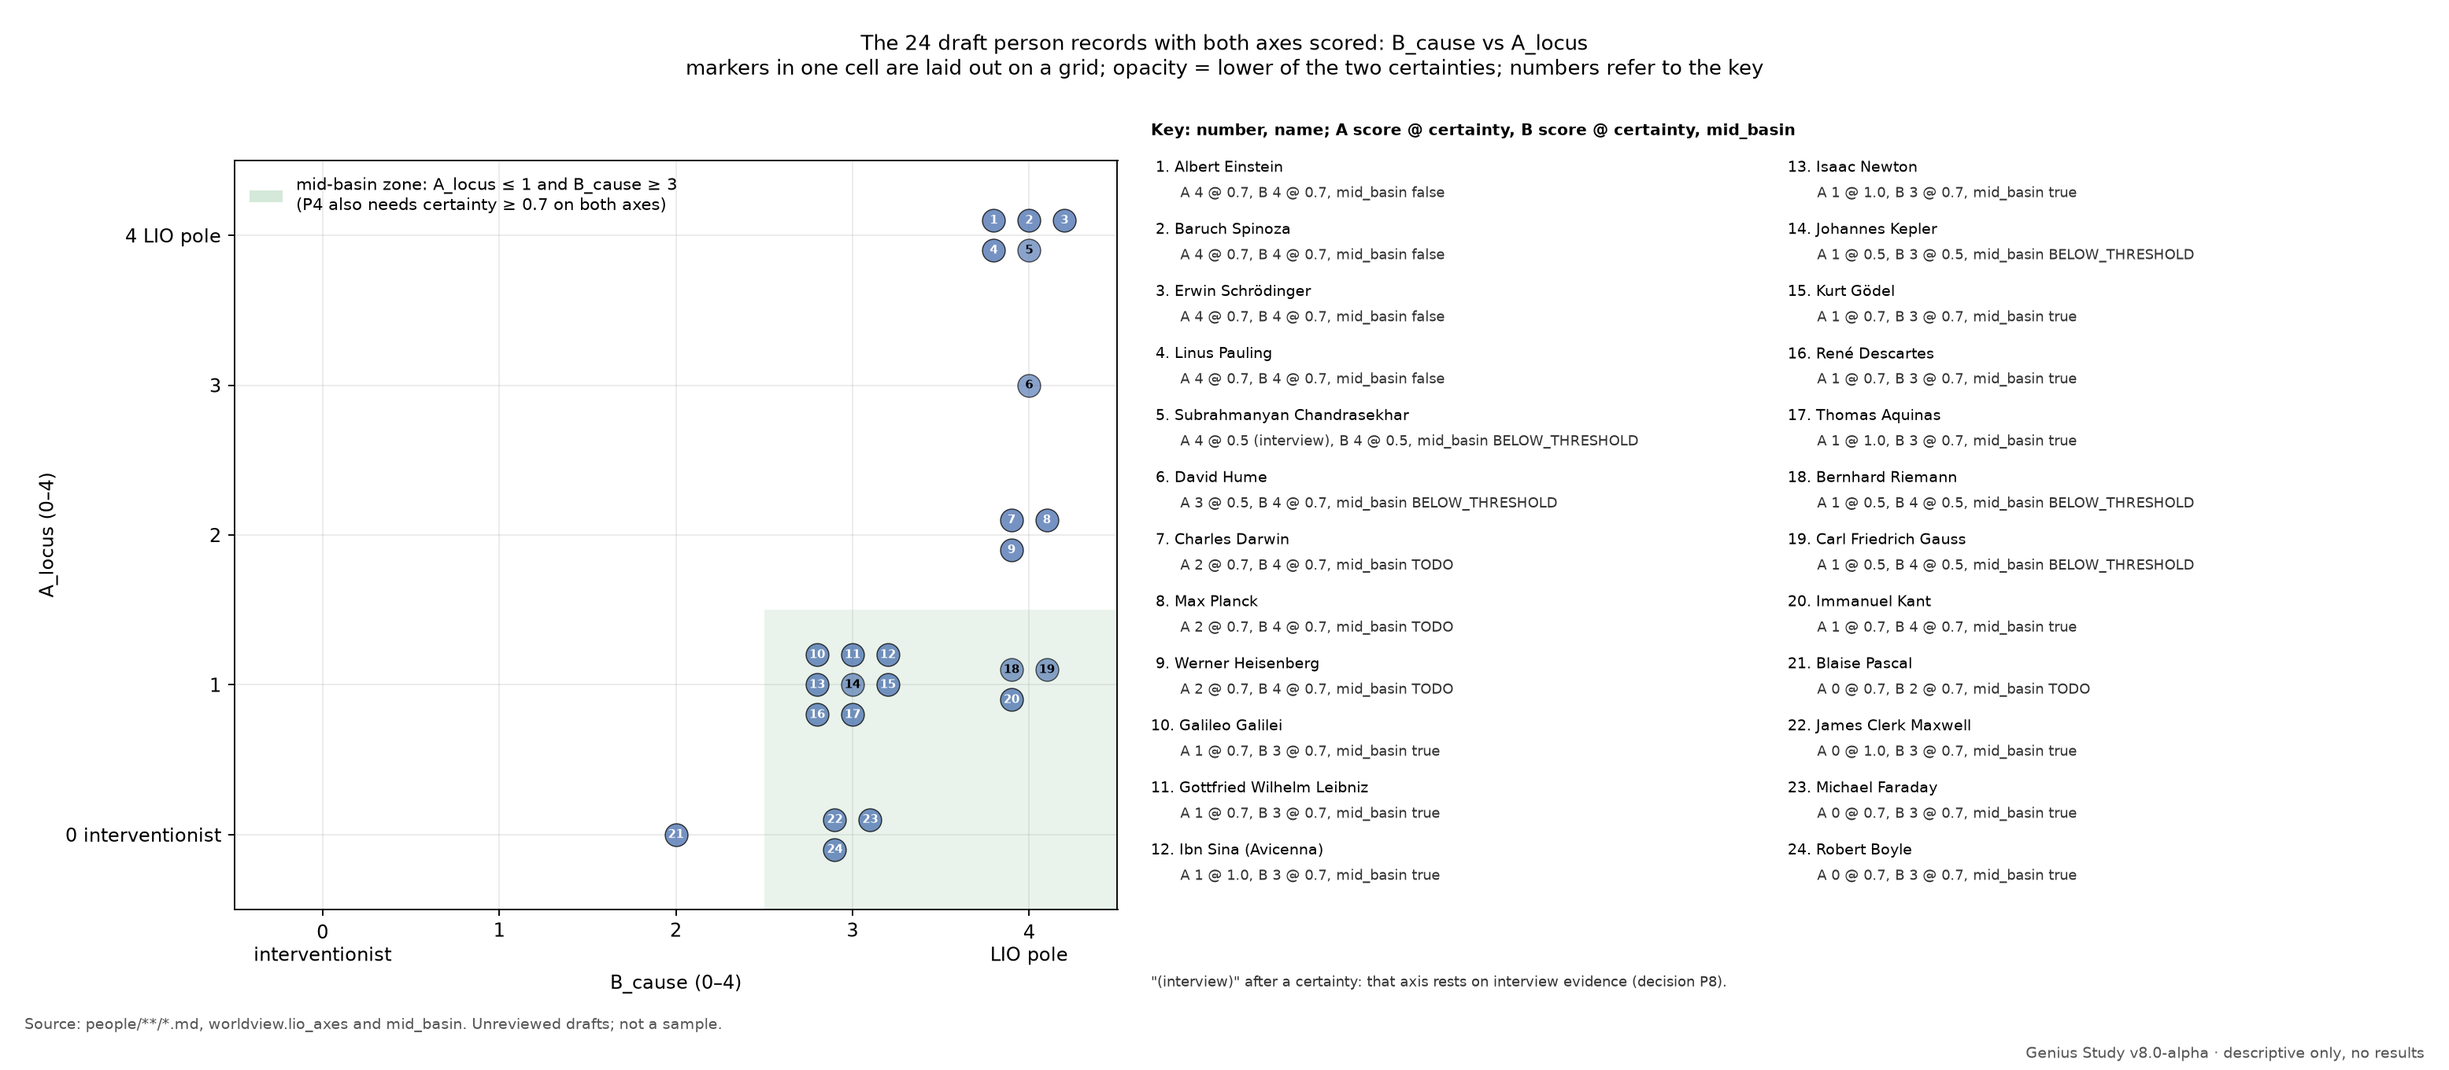
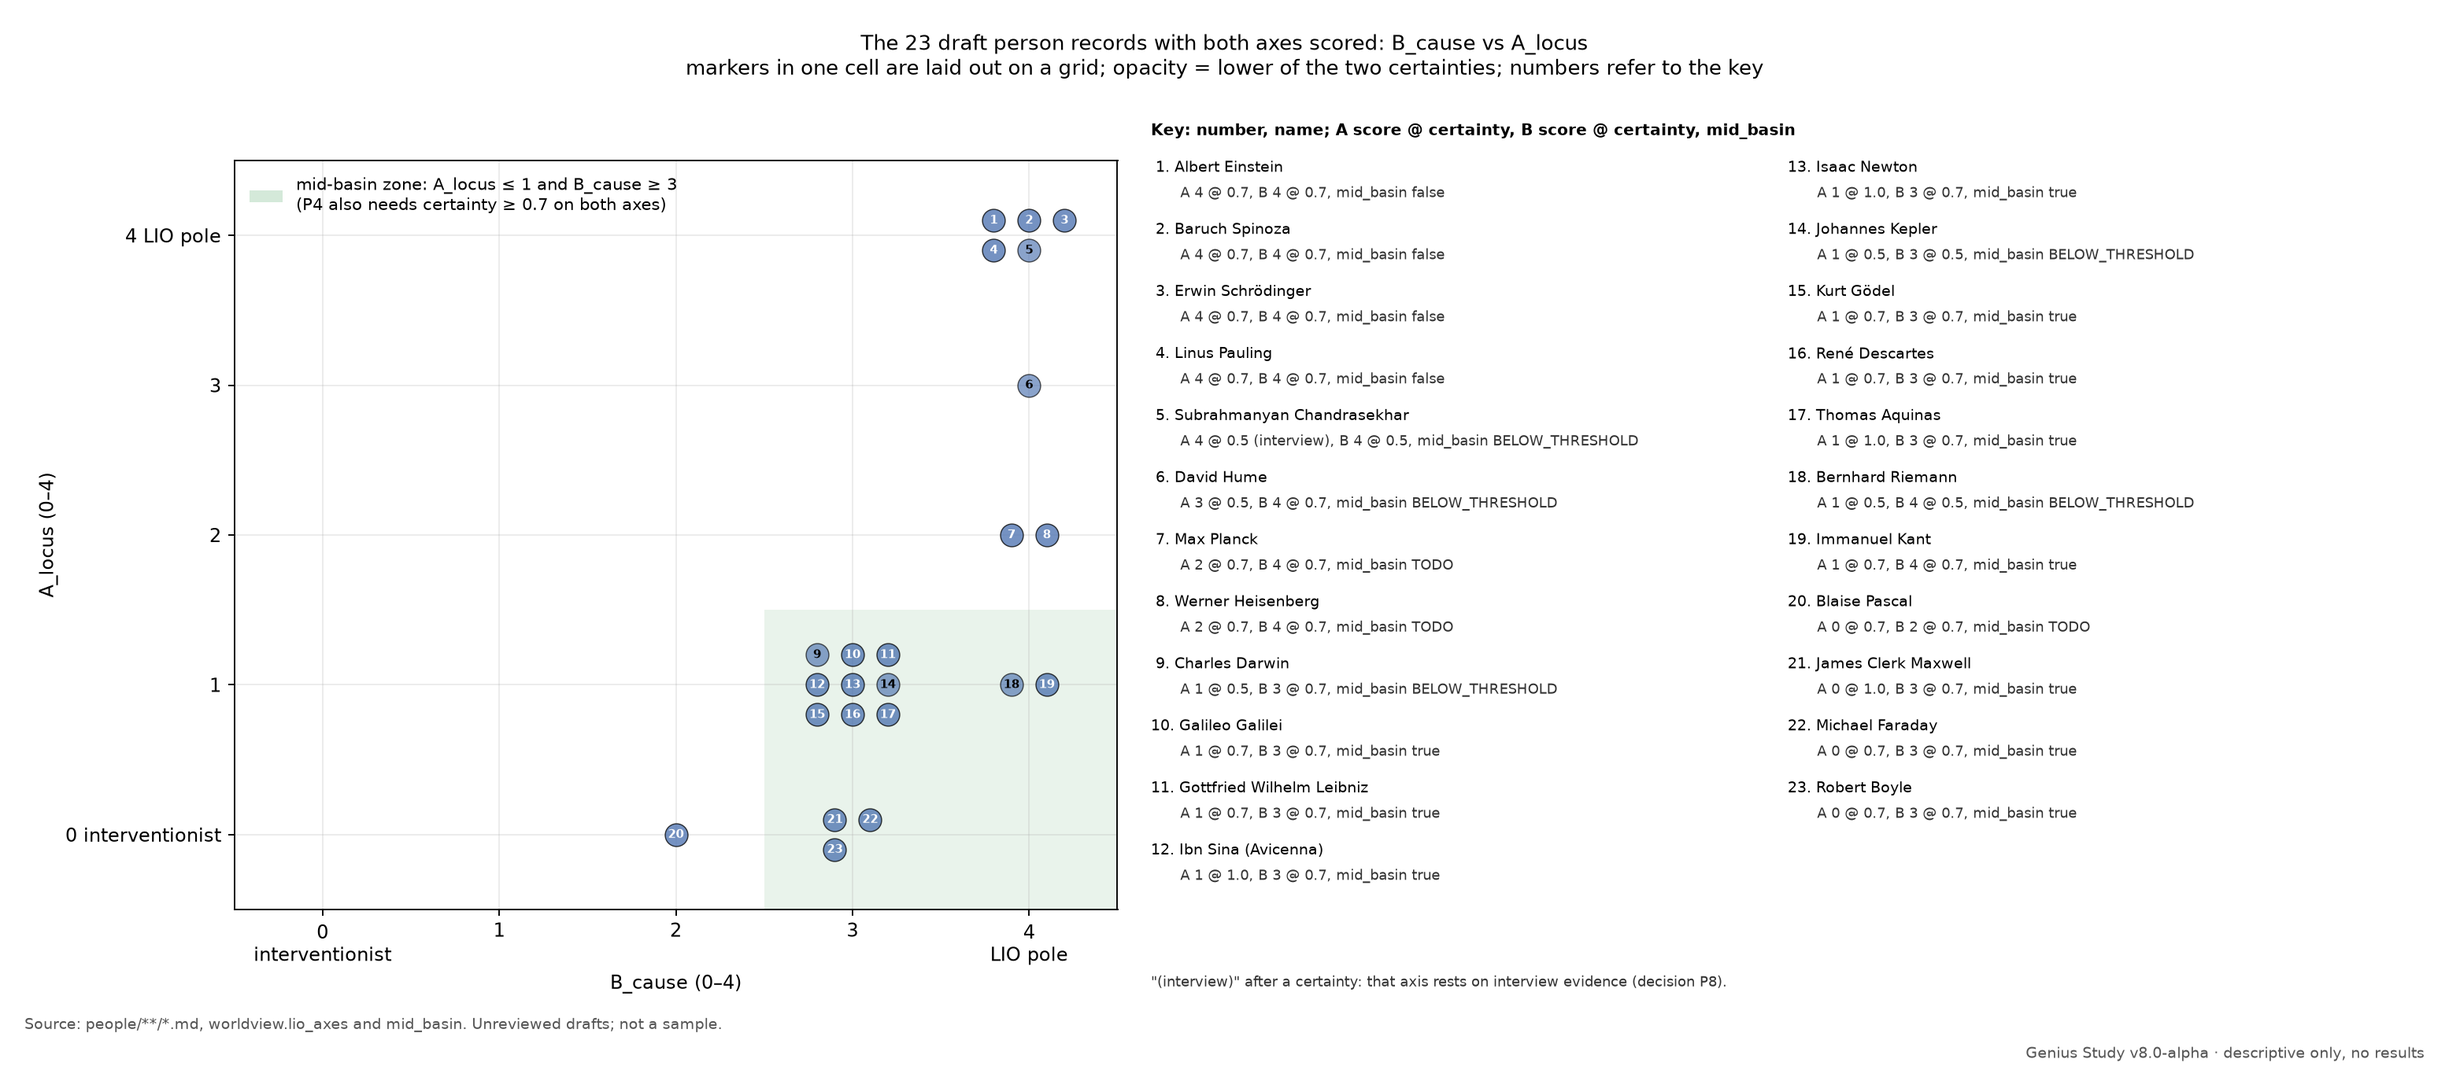
Record P29 (stage 3-b rulings follow-ups); regenerate README progress, coverage and person chart after v8.b's rulings

diff --git a/scripts/progress_status.py b/scripts/progress_status.py
@@ -34,10 +34,10 @@ AUDITS = ("9 blind lens runs on four batches: 3 on a 115-claim packet (eff4700),
           "124-claim packet (d9903b7/43cecc4; fixes at 6f37cd6) and 2 on a 165-claim packet (b21655b; run 1 155 hold / 10 weaken, "
           "run 2 160 hold / 5 weaken, 0 wrong; agreement 156/165, κ 0.37; fixes applied at 3bcd59c); see "
           "[reports/audit_2026-10-02.md](reports/audit_2026-10-02.md). Stage 3: 4 blind runs on the first 12 records (stage 3-a: "
-          "561 claims at 59a8371; stage 3-b: 420 claims at 3db6511); their method rulings are decisions P14–P28")
+          "561 claims at 59a8371; stage 3-b: 420 claims at 3db6511); their method rulings are decisions P14–P28; one blind run on the stage 3-b rulings (93 claims at 6155174: 88 hold, 4 weaken, 1 fail, fixed at 4c10399) gave P29")
 NEXT_STEPS = ("Stage 3 (everyone else with F ≥ 3) has started: the first 12 records (Spinoza, Descartes, Pascal, Leibniz, Kant, "
-              "Hume, Darwin, Gauss, Riemann, Turing, Noether, von Neumann) are drafts; their coders still apply the stage 3 lens fixes "
-              "and rulings P14–P28 (the other 31 records already follow them, schema 1.3); source the stubs on the S7 backlog "
+              "Hume, Darwin, Gauss, Riemann, Turing, Noether, von Neumann) are drafts; the stage 3-b six follow P14–P28 and still "
+              "apply P29; the stage 3-a six still apply P14–P29 (the other 31 records follow P14–P28, schema 1.3); source the stubs on the S7 backlog "
               "(ATHE, AGNOS, KANT, SCEPT, RATN, EMPIR, IDEAL); the revised rubric has not started")
 
 

diff --git a/docs/OPEN_DECISIONS.md b/docs/OPEN_DECISIONS.md
@@ -1,6 +1,6 @@
 # Open decisions
 
-Choices that need Jason's sign-off. Items under "Decided" were signed off by Jason, except those marked "DECIDED (v8's pick)": method details that Jason delegated, decided for him on 2026-10-02 (P9, P11, P12, P13, P14–P28, S7). P8 and P10 were first v8's picks and were signed off by Jason on 2026-10-02 (P8 with one addition: interview-based fields are flagged). As of 2026-10-02 no item is open. When a new question comes up, add it under "Open". Where the repo needs *some* value to work before a decision, it uses the stated proposal and marks it PROPOSED, and nothing downstream treats it as settled. When a decision is made:
+Choices that need Jason's sign-off. Items under "Decided" were signed off by Jason, except those marked "DECIDED (v8's pick)": method details that Jason delegated, decided for him on 2026-10-02 (P9, P11, P12, P13, P14–P29, S7). P8 and P10 were first v8's picks and were signed off by Jason on 2026-10-02 (P8 with one addition: interview-based fields are flagged). As of 2026-10-02 no item is open. When a new question comes up, add it under "Open". Where the repo needs *some* value to work before a decision, it uses the stated proposal and marks it PROPOSED, and nothing downstream treats it as settled. When a decision is made:
 
 1. record it here under "Decided", with the date;
 2. update the files it touches;
@@ -8,7 +8,7 @@ Choices that need Jason's sign-off. Items under "Decided" were signed off by Jas
 
 ## Summary of recommendations (v8 agent, 2026-10-01)
 
-The 19 recommendations below were decided on 2026-10-01; P6 and P7, added later, were decided on 2026-10-02. P8, P9 and S7 came out of the third people batch and were decided the same day as v8's picks (7:24 PM PT); Jason then signed off P8, adding the interview flag. P10 came out of the batch 3 lens audit, was a v8's pick, and was signed off by Jason on 2026-10-02 (8:23 PM PT). P11, P12 and P13 came out of the batch 4 lens audit and were decided the same day as v8's picks. P14–P28 came out of the two stage 3 lens audits (stage 3-a and 3-b, 2026-10-02) and were decided the same day as v8's picks, with the parent agent's rulings. Evidence files are in `reports/` (`r7_bucket_spotcheck.csv`, `r7_field_string_review.csv`).
+The 19 recommendations below were decided on 2026-10-01; P6 and P7, added later, were decided on 2026-10-02. P8, P9 and S7 came out of the third people batch and were decided the same day as v8's picks (7:24 PM PT); Jason then signed off P8, adding the interview flag. P10 came out of the batch 3 lens audit, was a v8's pick, and was signed off by Jason on 2026-10-02 (8:23 PM PT). P11, P12 and P13 came out of the batch 4 lens audit and were decided the same day as v8's picks. P14–P28 came out of the two stage 3 lens audits (stage 3-a and 3-b, 2026-10-02) and were decided the same day as v8's picks, with the parent agent's rulings. P29 came out of the lens run on the stage 3-b rulings and was decided the same day as v8's pick. Evidence files are in `reports/` (`r7_bucket_spotcheck.csv`, `r7_field_string_review.csv`).
 
 | ID | Recommendation | Confidence | Status |
 |---|---|---|---|
@@ -54,6 +54,7 @@ The 19 recommendations below were decided on 2026-10-01; P6 and P7, added later,
 | P26 | Sources: Spinoza's Ethics standard is Kisner (0.7 until checked; "Kisner check pending"); TTP by chapter and Bruder section (Gutenberg only with a label and a TODO); Britannica's AI "Top Questions" boxes cannot be cited; secondary-reached quotes must be checked against the primary text | medium-high | DECIDED (v8's pick) 2026-10-02 (stage 3 lens audit, ruling 13) |
 | P27 | Coding: DEISM requires rejecting revelation as a source of truth; anchor sentences for "LIO-type view", D 2 and the B 2/B 3 line | medium | DECIDED (v8's pick) 2026-10-02 (stage 3 lens audit, ruling 14) |
 | P28 | Kinds: letter written for circulation is "published letter" (counts as published work); unpublished finished treatise and the Pensées are "unpublished manuscript" | medium-high | DECIDED (v8's pick) 2026-10-02 (stage 3 lens audit, ruling 15) |
+| P29 | Stage 3-b follow-ups: §1 governs secondary_system; hedged self-reports stay at 0.5; a later disavowal caps the disowned wording at 0.5; contributions dated by first publication; one period per record (first to last listed lasting contribution); "scientist" = a listed lasting contribution in natural science, same for B and E; derived sources are not independent | medium | DECIDED (v8's pick) 2026-10-02 (from the v8.b rulings audit) |
 | S7 | System backlog: ATHE, AGNOS, IDEAL first; French spiritualism listed as a system to consider, no file | medium-high | decided 2026-10-02, v8's pick (added by the people run, batch 3) |
 
 **Decided 2026-10-01:** R1, R2, R3, R4, R5 and S2 were approved together as recommended. The other 13 were decided later the same day (10:55 PM PT): R6 with all 9 names core, Vint Cerf included; R7 with the six fixes; the rest as recommended. For P4, deists pass the test, and this is recorded as a stated consequence with no exclusion. Each item is under "Decided" with what changed.
@@ -65,7 +66,7 @@ None. P8–P28 and S7 were decided on 2026-10-02 and are listed under "Decided".
 
 ## Decided
 
-All 43 items, in id order (P6–P28 are placed after P5, S7 after S6).
+All 44 items, in id order (P6–P29 are placed after P5, S7 after S6).
 
 ### R1. Georgia O'Keeffe's status
 **Decided 2026-10-01 by Jason (approved as recommended):** Georgia O'Keeffe is `core`. Set in `data/roster/status_overrides.csv`; the rebuild writes the decision into her `notes`.
@@ -636,6 +637,21 @@ Applied in the schema (1.3), DATA_DICTIONARY and CODING_GUIDE §7. None of the 3
 - **Roster links:** cites of the roster that point to `blob/main` will be pinned to a commit SHA in a later sweep. No change now.
 - **Era bucket:** era_bucket follows the first lasting year, as §8 and P2 say (Darwin's era is not keyed to 1859).
 
+
+### P29. Stage 3-b follow-up rulings
+**DECIDED (v8's pick, 2026-10-02), from lens's blind run on the v8.b rulings packet (6155174):**
+- **secondary_system:** CODING_GUIDE §1 governs. A secondary system needs published work in two systems; otherwise it is UNKNOWN, and any evidence stays in the notes.
+- **Hedged self-reports:** a self-report hedged in its own words ("as far as I can remember") stays at 0.5 and does not reach P20's 0.7 cap. The same evidence gets the same certainty on every field it supports (primary_system and A together).
+- **Later disavowal:** when the person later disowns their own public wording (Darwin to Hooker, 1863: "truckled to public opinion"), that wording supports at most 0.5. The disavowal itself is cited.
+- **Dating a contribution:** a contribution is dated by its first publication. A dated public reading counts as publication only if it is documented. Darwin's coral-reef theory: 1839 Journal (p. 557), and this is the listed item. Era unchanged.
+- **One period per record (P20):** the period runs from the first to the last listed lasting contribution. Every axis and primary_system use that span. Statements from outside it count only as retrospective self-reports (0.7 cap, or 0.5 if hedged) or go in changes_over_life.
+- **Who is a scientist (P16, P19, P24):** anyone with a listed lasting contribution in natural or physical science, applied the same way to B and E. Working science can then support B and E at 0.5 as inference_from_work. A pure mathematician with no such contribution needs a statement about nature. Gauss (astronomy, geodesy, magnetism) and von Neumann (quantum mechanics) are scientists; Noether is not.
+- **P15:** no exception lets a single source give 1.0.
+- **Source independence:** a source that draws on another (MacTutor's Riemann biography on Dedekind's Lebenslauf) is not independent of it, so the pair gives 0.7.
+- **Two sources naming different people** (Fekete and Fejér as tutors) are not a P25 conflict. Each name gets its own entry at 0.7.
+- **Antinomy layouts:** a Thesis column is not the person's own view unless the text endorses it. It is discounted the same way on every axis.
+- **Childhood religious schooling** is evidence for the family and heritage fields only. It is off-point for the person's own axes A–E.
+- **Answers first given only inside records**, now recorded here: Riemann's A at 0.5 on the antinomy layout (consistent with the antinomy rule above); fields resting only on Dedekind's Lebenslauf at 0.7 (it is a friend's memoir, not a primary document); Noether's E UNKNOWN (no statement and no listed natural-science contribution).
 
 ### S1. CLTHEI display label
 **Decided 2026-10-01 by Jason (approved as recommended):** CLTHEI `display_label` is "Interventionist personal theism", `label_status` `approved`. The code and `v7_1_label` are unchanged.

diff --git a/README.md b/README.md
@@ -18,10 +18,10 @@ A study of where remembered genius sits on a scale of lawful, non-intervening or
 | Roster people | 1,380: 441 core, 33 provisional, 17 review, 889 new names still need a status |
 | People coded (of core) | 43 / 441 (draft, unreviewed) |
 | Belief systems sourced | 9 / 77 (the rest are stubs) |
-| Decisions settled | 43 / 43 |
-| Audits | 9 blind lens runs on four batches: 3 on a 115-claim packet (eff4700), 2 on a 147-claim packet (e648145), 2 on a 124-claim packet (d9903b7/43cecc4; fixes at 6f37cd6) and 2 on a 165-claim packet (b21655b; run 1 155 hold / 10 weaken, run 2 160 hold / 5 weaken, 0 wrong; agreement 156/165, κ 0.37; fixes applied at 3bcd59c); see [reports/audit_2026-10-02.md](reports/audit_2026-10-02.md). Stage 3: 4 blind runs on the first 12 records (stage 3-a: 561 claims at 59a8371; stage 3-b: 420 claims at 3db6511); their method rulings are decisions P14–P28 |
+| Decisions settled | 44 / 44 |
+| Audits | 9 blind lens runs on four batches: 3 on a 115-claim packet (eff4700), 2 on a 147-claim packet (e648145), 2 on a 124-claim packet (d9903b7/43cecc4; fixes at 6f37cd6) and 2 on a 165-claim packet (b21655b; run 1 155 hold / 10 weaken, run 2 160 hold / 5 weaken, 0 wrong; agreement 156/165, κ 0.37; fixes applied at 3bcd59c); see [reports/audit_2026-10-02.md](reports/audit_2026-10-02.md). Stage 3: 4 blind runs on the first 12 records (stage 3-a: 561 claims at 59a8371; stage 3-b: 420 claims at 3db6511); their method rulings are decisions P14–P28; one blind run on the stage 3-b rulings (93 claims at 6155174: 88 hold, 4 weaken, 1 fail, fixed at 4c10399) gave P29 |
 | Latest tag | `v8.0-alpha` (prerelease) |
-| Next steps | Stage 3 (everyone else with F ≥ 3) has started: the first 12 records (Spinoza, Descartes, Pascal, Leibniz, Kant, Hume, Darwin, Gauss, Riemann, Turing, Noether, von Neumann) are drafts; their coders still apply the stage 3 lens fixes and rulings P14–P28 (the other 31 records already follow them, schema 1.3); source the stubs on the S7 backlog (ATHE, AGNOS, KANT, SCEPT, RATN, EMPIR, IDEAL); the revised rubric has not started |
+| Next steps | Stage 3 (everyone else with F ≥ 3) has started: the first 12 records (Spinoza, Descartes, Pascal, Leibniz, Kant, Hume, Darwin, Gauss, Riemann, Turing, Noether, von Neumann) are drafts; the stage 3-b six follow P14–P28 and still apply P29; the stage 3-a six still apply P14–P29 (the other 31 records follow P14–P28, schema 1.3); source the stubs on the S7 backlog (ATHE, AGNOS, KANT, SCEPT, RATN, EMPIR, IDEAL); the revised rubric has not started |
 
 <!-- END GENERATED: progress -->
 
@@ -42,7 +42,7 @@ These charts describe what is in the repo so far; they are not results. The rost
 ![The coded draft person records on B_cause against A_locus](figures/people_cause_locus.png)
 
 <!-- BEGIN GENERATED: people_chart_caption -->
-*The coded draft person records on B_cause (x) and A_locus (y), with the mid-basin zone shaded. Only records with both axes scored are plotted (24 of the 43 coded people); every plotted person is B_cause 2, 3 or 4, and these hand-picked people are not a sample. Each marker carries a number; the key gives the name, both scores with their certainties, and mid_basin. "(interview)" after a certainty means that score rests on interview evidence (decision P8).*
+*The coded draft person records on B_cause (x) and A_locus (y), with the mid-basin zone shaded. Only records with both axes scored are plotted (23 of the 43 coded people); every plotted person is B_cause 2, 3 or 4, and these hand-picked people are not a sample. Each marker carries a number; the key gives the name, both scores with their certainties, and mid_basin. "(interview)" after a certainty means that score rests on interview evidence (decision P8).*
 <!-- END GENERATED: people_chart_caption -->
 
 ![The nine sourced belief-system drafts on the v8 LIO axes](figures/systems_axes.png)
@@ -57,7 +57,7 @@ v8 starts by fixing the data in v7.1:
 - Frequency (F) is now the number of distinct models that list a person (1 to 5), so alias counts no longer get added together.
 - Each person and each belief system gets its own record, with sources and a certainty grade for every fact.
 - The two belief systems that were both labeled "Classical Theism" get separate display names (approved).
-- The scales and lists that v7.1 left open (LIO axis scale, era buckets, regions, the mid-basin test) are now set. All 43 decisions are settled: 19 on 2026-10-01, and P6–P28 and S7 on 2026-10-02. P9, P11–P28 and S7 are v8's picks on method details Jason delegated (P14–P28 came from the two stage 3 lens audits); P8 and P10 began as v8's picks and Jason has signed them off ([open decisions](docs/OPEN_DECISIONS.md)).
+- The scales and lists that v7.1 left open (LIO axis scale, era buckets, regions, the mid-basin test) are now set. All 44 decisions are settled: 19 on 2026-10-01, and P6–P29 and S7 on 2026-10-02. P9, P11–P29 and S7 are v8's picks on method details Jason delegated (P14–P29 came from the stage 3 lens audits); P8 and P10 began as v8's picks and Jason has signed them off ([open decisions](docs/OPEN_DECISIONS.md)).
 
 See [CHANGELOG.md](CHANGELOG.md) for details.
 

diff --git a/reports/coverage.md b/reports/coverage.md
@@ -60,16 +60,16 @@ A claim is any field that takes the claim shape (value + certainty + cites). TOD
 |---|---|---|---|---|---|---|
 | identity | 86 | 85 | 0 | 1 | 0 | 98.8% |
 | basics | 473 | 473 | 0 | 0 | 0 | 100.0% |
-| contribution | 501 | 500 | 0 | 1 | 0 | 99.8% |
+| contribution | 502 | 501 | 0 | 1 | 0 | 99.8% |
 | childhood | 598 | 517 | 74 | 7 | 0 | 86.5% |
-| worldview | 496 | 304 | 4 | 90 | 98 | 61.3% |
+| worldview | 496 | 303 | 3 | 99 | 91 | 61.1% |
 | heritage | 172 | 96 | 69 | 7 | 0 | 55.8% |
 | timing | 215 | 176 | 25 | 14 | 0 | 81.9% |
 | lane_b | 129 | 126 | 3 | 0 | 0 | 97.7% |
 | institutions | 144 | 144 | 0 | 0 | 0 | 100.0% |
 | collaborators | 204 | 204 | 0 | 0 | 0 | 100.0% |
 | review | 67 | 67 | 0 | 0 | 0 | 100.0% |
-| **all** | 3085 | 2692 | 175 | 120 | 98 | 87.3% |
+| **all** | 3086 | 2692 | 174 | 129 | 91 | 87.2% |
 
 ### Worldview coding status
 
@@ -81,7 +81,7 @@ A claim is any field that takes the claim shape (value + certainty + cites). TOD
 | chandrasekhar-subrahmanyan | ATHE (interview) | draft — unreviewed |
 | clausius-rudolf | UNKNOWN | draft — unreviewed |
 | curie-marie | BELOW_THRESHOLD | draft — unreviewed |
-| darwin-charles | BELOW_THRESHOLD | draft — unreviewed |
+| darwin-charles | DEISM | draft — unreviewed |
 | descartes-rene | CLASS_THEISM | draft — unreviewed |
 | dirac-paul | BELOW_THRESHOLD | draft — unreviewed |
 | einstein-albert | PANT | draft — unreviewed |
@@ -107,7 +107,7 @@ A claim is any field that takes the claim shape (value + certainty + cites). TOD
 | meitner-lise | BELOW_THRESHOLD | draft — unreviewed |
 | mendeleev-dmitri | BELOW_THRESHOLD | draft — unreviewed |
 | newton-isaac | CHRIST | draft — unreviewed |
-| noether-emmy | BELOW_THRESHOLD | draft — unreviewed |
+| noether-emmy | UNKNOWN | draft — unreviewed |
 | oppenheimer-j-robert | BELOW_THRESHOLD | draft — unreviewed |
 | pascal-blaise | CHRIST | draft — unreviewed |
 | pasteur-louis | BELOW_THRESHOLD | draft — unreviewed |
@@ -116,7 +116,7 @@ A claim is any field that takes the claim shape (value + certainty + cites). TOD
 | riemann-bernhard | BELOW_THRESHOLD | draft — unreviewed |
 | schrodinger-erwin | HINDU | draft — unreviewed |
 | spinoza-baruch | PANT | draft — unreviewed |
-| turing-alan | BELOW_THRESHOLD | draft — unreviewed |
+| turing-alan | ATHE | draft — unreviewed |
 | von-neumann-john | BELOW_THRESHOLD | draft — unreviewed |
 
 "(interview)" after a primary system: the code rests on interview evidence (decision P8).
